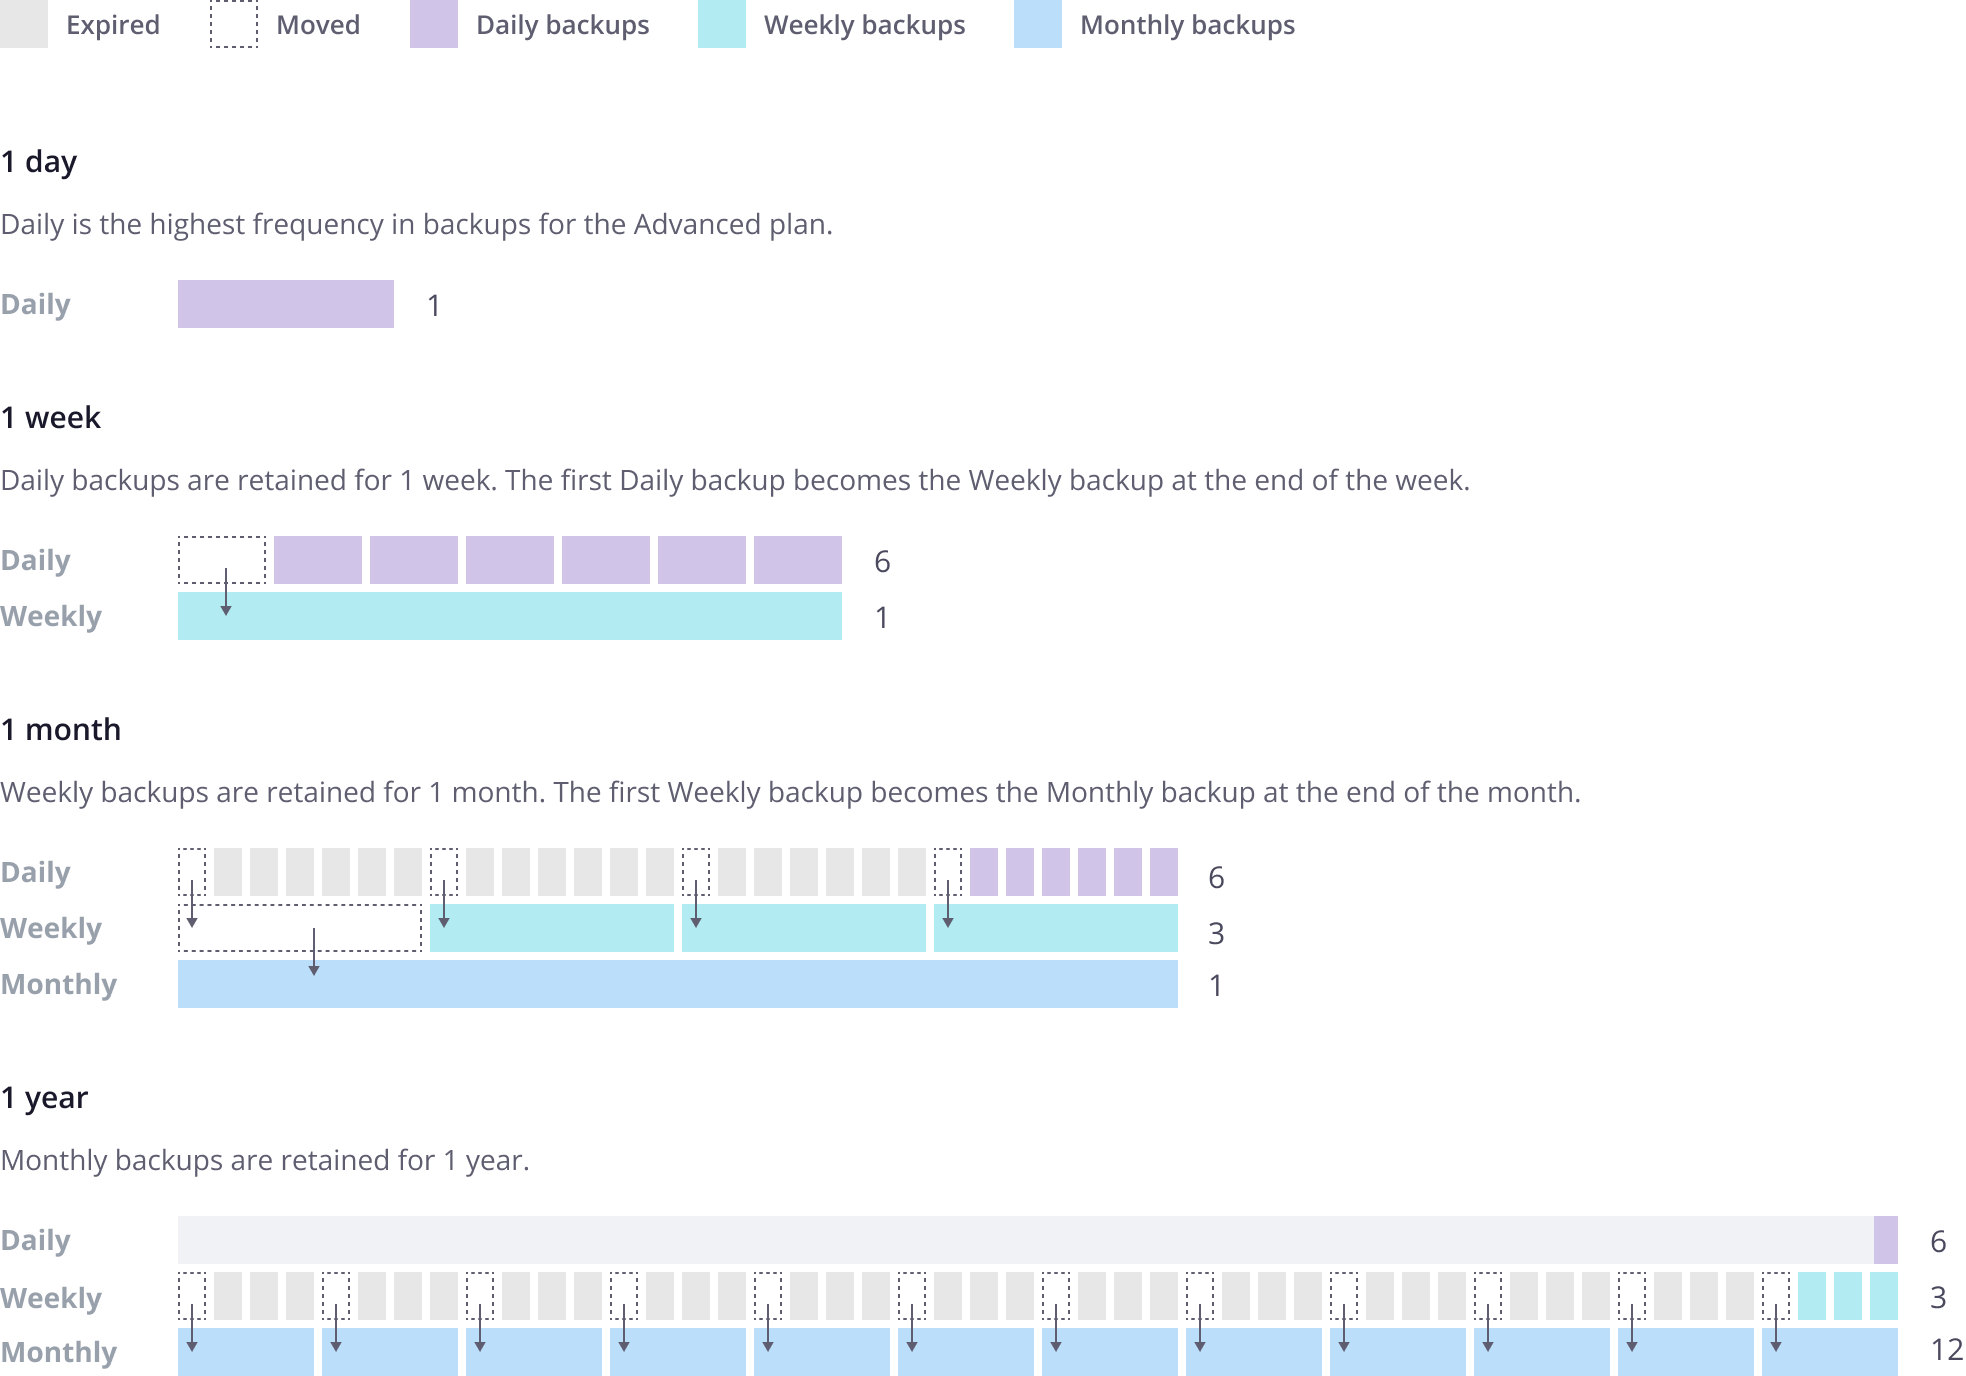
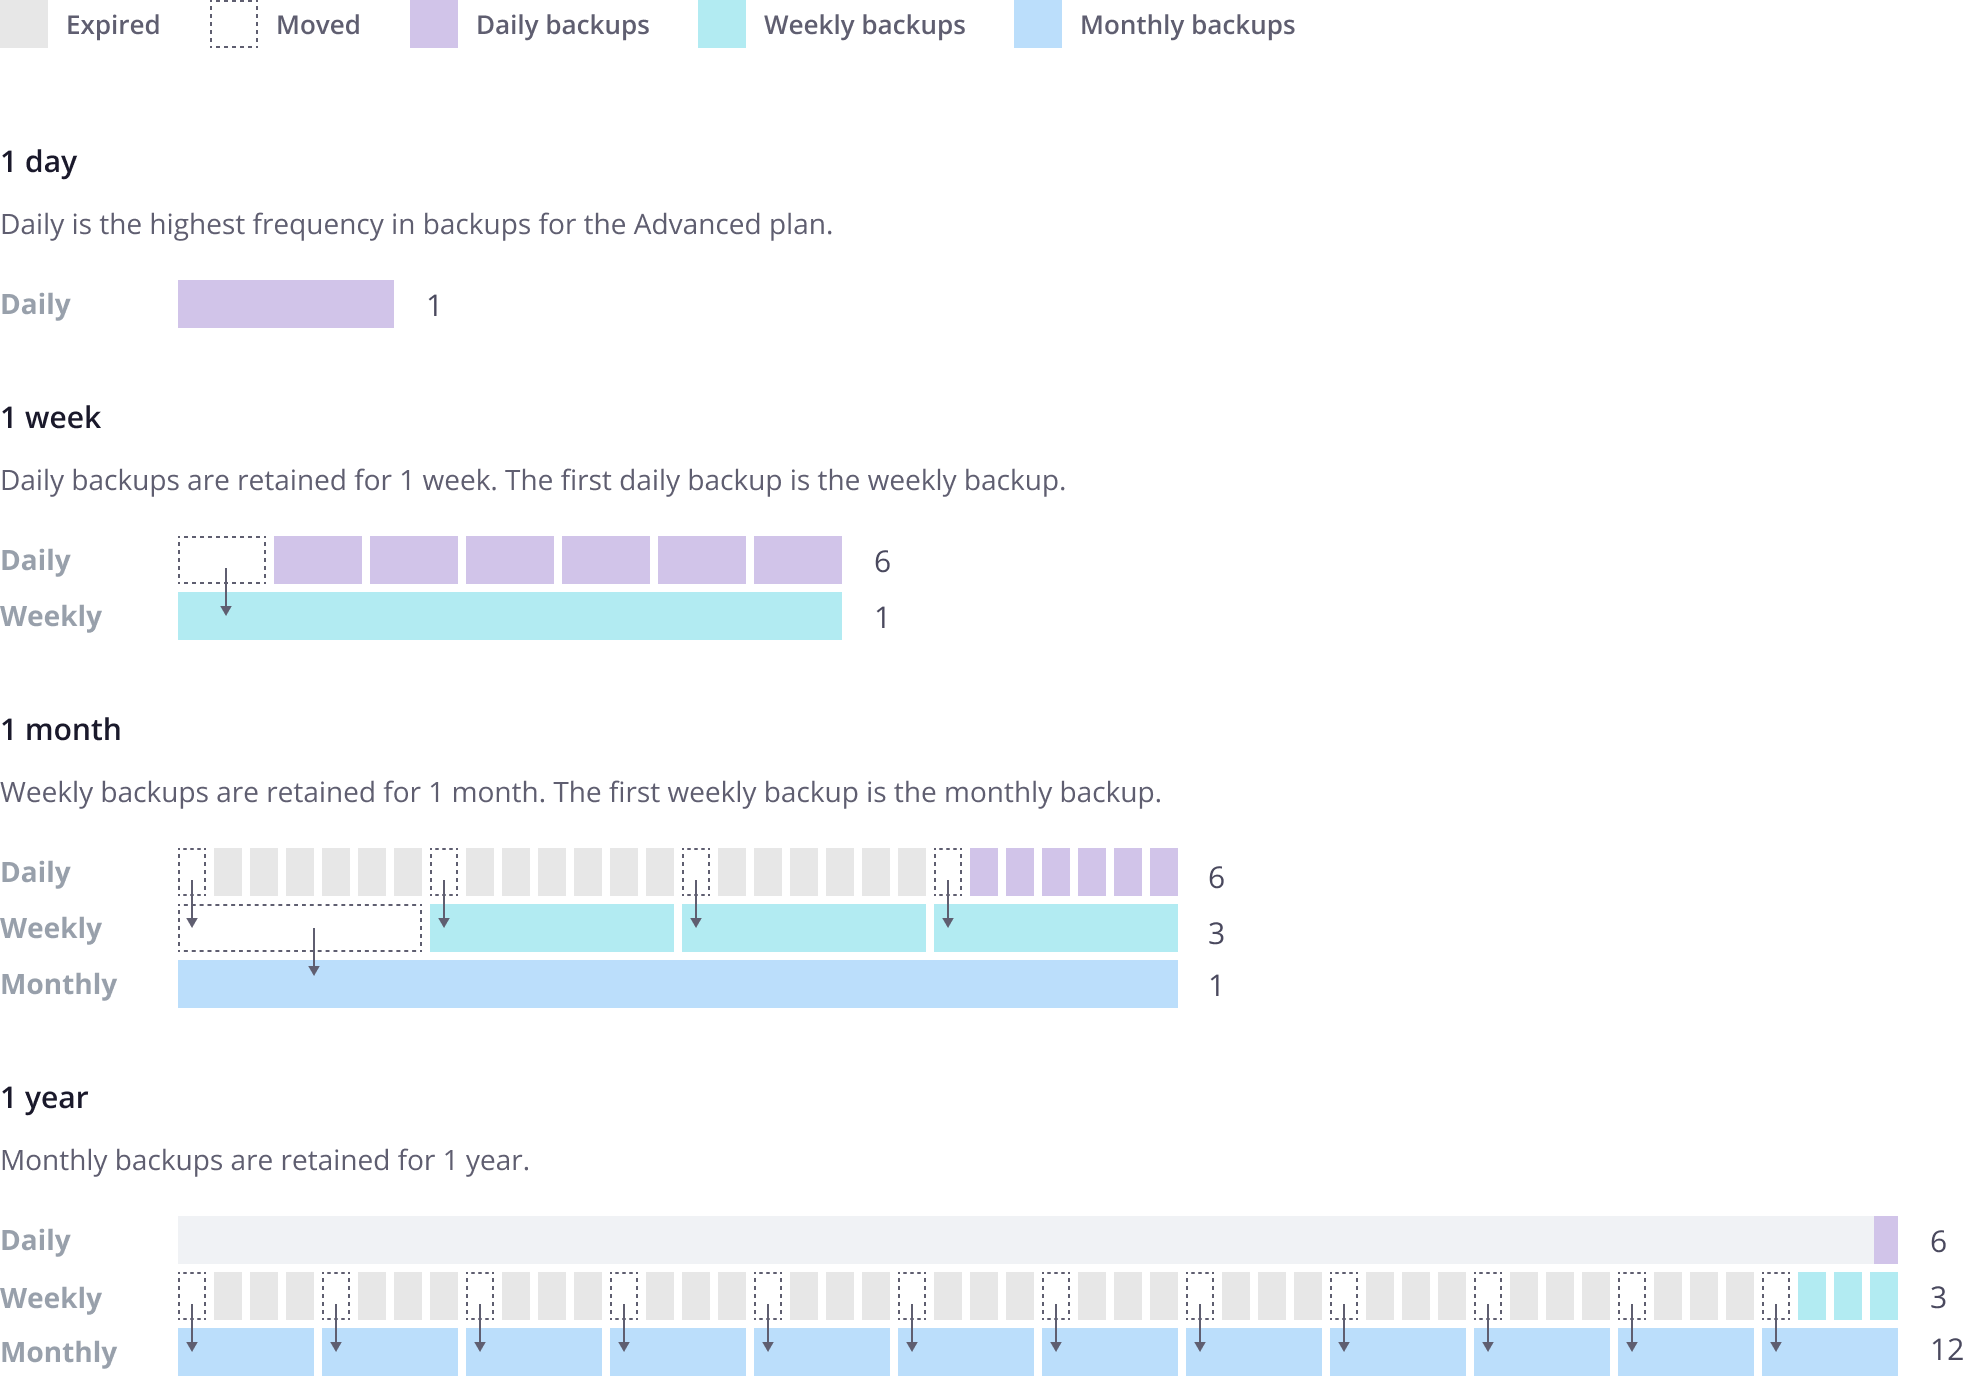
📝 Clarify first backups start as next duration

Changed region(s): [[0.3413, 0.5625, 0.8067, 0.5938], [0.3103, 0.3438, 0.7447, 0.375]]

diff --git a/docs/src/security/data-retention.md b/docs/src/security/data-retention.md
@@ -53,11 +53,11 @@ The times are just for understanding as actual backup times vary by project.
 
 The first cycle is 4 backups (6-hourly backups) made in one day.
 
-![Four 6-hourly backups get taken on a Monday. No daily backups are taken.](/images/backup-cycles/first-cycle.png "0.215-inline")
+![Four 6-hourly backups get taken on a Monday.](/images/backup-cycles/first-cycle.png "0.215-inline")
 
-The first backup doesn’t expire but is retained for the next cycle.
+The first backup doesn’t expire after one day but is retained for the next cycle.
 
-![The first 6-hourly backup becomes a daily backup.](/images/backup-cycles/retain.png "0.215-inline")
+![The first 6-hourly backup is a daily backup.](/images/backup-cycles/retain.png "0.215-inline")
 
 As additional backups are created, the oldest backups are replaced and no longer available.
 
@@ -71,13 +71,13 @@ When the next cycle completes, it has replaced the previous cycle.
 
 The following diagram shows how the cycle works for the entire Advanced schedule:
 
-![Daily backups are retained for 1 week. The first daily backup becomes the weekly backup at the end of the week. Weekly backups are retained for 1 month. The first weekly backup becomes the monthly backup at the end of the month. Monthly backups are retained for 1 year.](/images/backup-cycles/advanced-retention.png "0.6")
+![Daily backups are retained for 1 week. The first daily backup is the weekly backup. Weekly backups are retained for 1 month. The first weekly backup is the monthly backup. Monthly backups are retained for 1 year.](/images/backup-cycles/advanced-retention.png "0.6")
 
 #### Premium schedule retention
 
 The following diagram shows how the cycle works for the entire Premium schedule:
 
-![Each 6-hourly backup is retained for 1 day. Each day, the first 6-hourly backup becomes the daily backup. Daily backups are retained for 30 days. The first daily backup becomes the monthly backup at the end of the month. Monthly backups are retained for 1 year.](/images/backup-cycles/premium-retention.png "0.6")
+![Each 6-hourly backup is retained for 1 day. The first 6-hourly backup is the daily backup. Daily backups are retained for 30 days. The first daily backup is the monthly backup. Monthly backups are retained for 1 year.](/images/backup-cycles/premium-retention.png "0.6")
 
 ## {{% names/dedicated-gen-2 %}} backups
 
